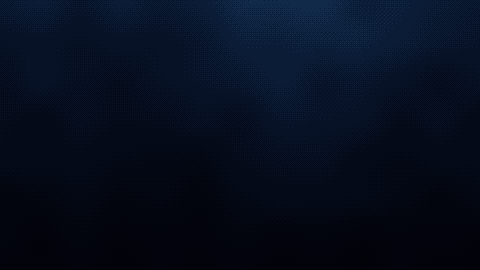
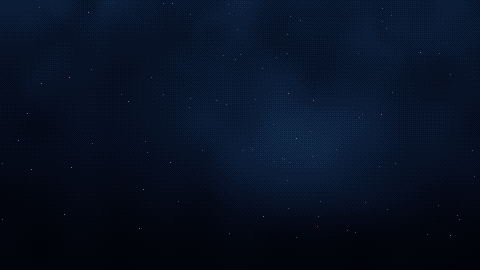
art(intro): 용궁 정전 디테일(비늘 바닥·카펫·산호·진주·창밖 물고기), 바닷속 용궁 실루엣·중경 산초, 연출(시차·푸시인·귀화·기포·진주 글로우), 검은 띠 버그 수정, capture --every

Changed region(s): [[0.375, 0.4148, 0.9062, 0.7407], [0.5312, 0.0, 0.7188, 0.1185]]

diff --git a/art/intro_hall3d.py b/art/intro_hall3d.py
@@ -36,6 +36,10 @@ RAMPS = {
     'dais':    ramp('#06080e', '#0e121c', '#181e2c', '#242c3e', '#323c52', '#465068'),
     'bed':     ramp('#0e0a12', '#1c1424', '#2c2038', '#3e304e', '#544466', '#6e5c80'),
     'drape':   ramp('#061416', '#0c2224', '#143436', '#1e4a4a', '#2a6260'),
+    'coral':   ramp('#14060c', '#2a0e16', '#4a1a22', '#74302c', '#a0503a', '#c87a4c'),
+    'coral2':  ramp('#04100e', '#0a2420', '#123c36', '#1e5a4e', '#34806c', '#5aa890'),
+    'carpet':  ramp('#0c0614', '#180a26', '#2a1238', '#401c50', '#5a2a66', '#7a4082'),
+    'stone':   ramp('#05080e', '#0c121c', '#161e2c', '#222c3e', '#323e54', '#46546c'),
     'pearl':   ramp('#1e2c38', '#344e5e', '#527684', '#7a9ea6', '#a6c6c8', '#cce4e0'),
 }
 FOG = hx('#071426')
@@ -76,6 +80,7 @@ def _plane(o, d, axis, v, sign):
 
 
 PILLARS = [(sx * 3.3, z) for z in (4.8, 7.6, 10.4, 13.2) for sx in (-1, 1)] + [(sx * 5.6, z) for z in (5.0, 9.0, 13.0) for sx in (-1, 1)]
+CORALS = [(sx * 4.4, z, int(z * 3)) for z in (6.2, 9.0, 12.0) for sx in (-1, 1)] + [(sx * 6.4, z, int(z * 5)) for z in (7.0, 11.0) for sx in (-1, 1)]
 LANTERNS = [(sx * 2.1, 3.9, z) for z in (5.0, 8.0, 11.0) for sx in (-1, 1)]
 
 
@@ -116,6 +121,25 @@ def scene(o, d, depth=0):
     for sx in (-1, 1):   # drapes gathered at the canopy posts
         lo, hi = (sx * 1.7 - 0.22, 1.0, 10.25), (sx * 1.7 + 0.22, 3.35, 10.55)
         take(_box(o, d, lo, hi), 'drape', lambda p, lo=lo, hi=hi: _box_normal(p, lo, hi))
+    for (cx, cz, k) in CORALS:      # coral clusters between the pillars: branching trunks with round crowns
+        for j in range(4):
+            bx, bz = cx + math.cos(j * 1.9 + k) * 0.28, cz + math.sin(j * 1.9 + k) * 0.28
+            h = 0.9 + 0.5 * ((j * 7 + k) % 3)
+            nm = 'coral' if (k + j) % 2 == 0 else 'coral2'
+            take(_cyl(o, d, bx, bz, 0.07, 0, h), nm, lambda p, bx=bx, bz=bz: np.stack([p[:, 0] - bx, np.zeros(len(p)), p[:, 2] - bz], -1) / 0.07)
+            c = np.array([bx, h + 0.05, bz])
+            take(_sph(o, d, c, 0.2 + 0.04 * j), nm, lambda p, c=c, r=0.2 + 0.04 * j: (p - c) / r)
+    for sx in (-1, 1):             # pearl on a stone pedestal beside the dais
+        lo, hi = (sx * 2.7 - 0.35, 0.0, 7.5), (sx * 2.7 + 0.35, 0.9, 8.2)
+        take(_box(o, d, lo, hi), 'stone', lambda p, lo=lo, hi=hi: _box_normal(p, lo, hi))
+        c = np.array([sx * 2.7, 1.3, 7.85])
+        take(_sph(o, d, c, 0.42), 'pearl', lambda p, c=c: (p - c) / 0.42)
+    for (sx, z) in ((-1.1, 6.0), (1.1, 6.0), (-1.1, 9.4), (1.1, 9.4)):   # strings of pearls hanging from the beams
+        for j in range(6):
+            c = np.array([sx, 5.9 - j * 0.28, z])
+            take(_sph(o, d, c, 0.09), 'pearl', lambda p, c=c: (p - c) / 0.09)
+    for (cx, cz) in PILLARS:       # bracket sets under the eaves
+        take(_cyl(o, d, cx, cz, 0.44, 5.35, 5.8), 'dan_r', lambda p, cx=cx, cz=cz: np.stack([p[:, 0] - cx, np.zeros(len(p)), p[:, 2] - cz], -1) / 0.44)
     for (lx, ly, lz) in LANTERNS:
         take(_sph(o, d, np.array([lx, ly, lz]), 0.18), 'pearl', lambda p, c=np.array([lx, ly, lz]): (p - c) / 0.18)
     return best, mat, nrm
@@ -149,9 +173,23 @@ def shade(mat, p, nrm, d):
     f = m == 'floor'
     if f.any():
         caust = _noise(x[f] * 2.2, z[f] * 2.2, 1.0) * _noise(x[f] * 3.1 + 4, z[f] * 2.7, 2.0)
-        tile = ((np.floor(x[f] / 1.2) + np.floor(z[f] / 1.2)) % 2) * 0.35
+        # seigaiha: staggered rings of overlapping scales (용궁 비늘 바닥)
+        sc_ = 0.9
+        row = np.floor(z[f] / (sc_ * 0.5))
+        xo = x[f] / sc_ + (row % 2) * 0.5
+        fx = np.mod(xo, 1.0) - 0.5
+        fz = np.mod(z[f] / (sc_ * 0.5), 1.0)
+        rr = np.sqrt(fx ** 2 + (fz * 0.5) ** 2) * 2.0
+        ring = (np.abs(np.mod(rr * 3.0, 1.0) - 0.5) < 0.12) * 0.55
+        tile = ring + (rr < 0.55) * 0.25
         tone[f] = 1.4 + tile + caust * 1.6 + glow[f] * 0.9 - z[f] * 0.05
-    for name, base, k in (('pillar', 2.0, 3.0), ('dais', 1.4, 2.4), ('bed', 1.6, 2.8), ('drape', 1.2, 2.4), ('gold', 1.6, 3.2)):
+        run = np.abs(x[f]) < 1.15   # the carpet runner to the dais, gold-edged
+        edge = run & (np.abs(np.abs(x[f]) - 1.0) < 0.07)
+        tone[f] = np.where(run, 1.6 + glow[f] * 1.0 + caust * 0.8 + ((np.mod(z[f], 0.9) < 0.1) * 0.8), tone[f])
+        mm = m[f]; mm[run] = 'carpet'; mm[edge] = 'gold'; m[f] = mm
+        tone[np.where(f)[0][edge]] = 3.2
+    f = m == 'floor'
+    for name, base, k in (('pillar', 2.0, 3.0), ('coral', 1.4, 3.4), ('coral2', 1.4, 3.4), ('stone', 1.4, 2.6), ('dan_r', 1.4, 2.4), ('dais', 1.4, 2.4), ('bed', 1.6, 2.8), ('drape', 1.2, 2.4), ('gold', 1.6, 3.2)):
         s = m == name
         tone[s] = base + lam[s] * k + glow[s] * 0.9
     s = m == 'pillar'
@@ -181,6 +219,9 @@ def shade(mat, p, nrm, d):
         grid = (np.abs(np.mod(z[la], 0.5) - 0.25) < 0.04) | (np.abs(np.mod(y[la], 0.5) - 0.25) < 0.04)
         win = (np.mod(z[la], 3.0) > 0.6) & (y[la] > 1.0) & (y[la] < 4.8)
         tone[la] = np.where(win & ~grid, 3.4 + _noise(z[la], y[la], 5.0) * 2.0, 0.8 + glow[la] * 0.5)
+        for fz_, fy_ in ((4.0, 2.4), (8.5, 3.6), (11.5, 2.0), (14.5, 3.9)):   # fish gliding past the windows
+            fsh = ((z[la] - fz_) / 0.9) ** 2 + ((y[la] - fy_) / 0.22) ** 2 < 1
+            tone[la] = np.where(fsh & win, 0.8, tone[la])
         mm = m[la]; mm[~win] = 'wall'; m[la] = mm
     pe = m == 'pearl'
     tone[pe] = 2.8 + lam[pe] * 1.6
@@ -212,7 +253,7 @@ def render():
         rt, rm, rn = scene(p[f] + rd * 1e-3, rd)
         rp = p[f] + rd * np.where(np.isfinite(rt), rt, 30)[:, None]
         rtone, rm = shade(rm, rp, rn, rd)
-        refl = np.isin(rm, ['pillar', 'gold', 'pearl', 'bed', 'dais'])
+        refl = np.isin(rm, ['pillar', 'gold', 'pearl', 'bed', 'dais', 'coral', 'coral2'])
         tone_f = tone[f]
         tone_f[refl] = tone_f[refl] * 0.65 + rtone[refl] * 0.35
         tone[f] = tone_f
@@ -234,5 +275,13 @@ def render():
         shafts += np.exp(-(lx ** 2) / (60 + k * 30)) * np.clip(1.2 - yy / 220, 0, 1)
     rgb = rgb * (1 - fog[:, None] * 0.75) + FOG * fog[:, None] * 0.75
     rgb += np.array([40, 70, 90]) * (shafts * 0.28)[:, None]
+    c0 = np.array([0.0, 1.6, 11.0])    # warm lamplight over the sick-bed (the one warm note in the cold hall)
+    dd2 = ((p - c0) ** 2).sum(-1)
+    rgb += np.array([70, 40, 12]) * np.exp(-dd2 / 12.0)[:, None] * 0.95
+    rng = np.random.default_rng(21)    # drifting motes baked as single bright pixels, brighter when nearer
+    for _ in range(170):
+        mx, my = rng.integers(0, W), rng.integers(0, H)
+        k = rng.random()
+        rgb.reshape(H, W, 3)[my, mx] = np.maximum(rgb.reshape(H, W, 3)[my, mx], np.array([90, 150, 170]) * (0.5 + k * 0.5))
     q = np.floor(rgb / 6) * 6   # keep the palette tight after fog
     return np.clip(q, 0, 255).reshape(H, W, 3)

diff --git a/art/intro.py b/art/intro.py
@@ -84,13 +84,53 @@ def palace_silhouette(w, h):
 
 
 def shot_sea():
-    g = (1 - yy / H) * 3.2 + noise((H, W), 40, 1) * 0.8 + np.exp(-((xx - 300) ** 2) / 9000.0) * (1 - yy / H) * 1.5
+    # water: lit from the surface far above, a pearl-glow pooled around the drowned palace
+    glow = np.exp(-(((xx - 300) / 150.0) ** 2 + ((yy - 150) / 70.0) ** 2))
+    g = (1 - yy / H) * 3.2 + noise((H, W), 40, 1) * 0.8 + glow * 2.6
+    g += (np.sin(xx * 0.05 + noise((H, W), 30, 2) * 6) * 0.5 + 0.5) * np.clip(1 - yy / 130.0, 0, 1) * 0.5   # caustic bands near the top
     rgb = dither(g, DEEP)
+    rng = np.random.default_rng(31)
+    for _ in range(90):                               # marine snow / plankton glints
+        px, py = rng.integers(0, W), rng.integers(0, H - 30)
+        rgb[py, px] = hx('#2c4e70') if rng.random() > 0.3 else hx('#4a7a98')
     save('intro_sea', rgb)
     far, win = palace_silhouette(W, H)
-    col = np.zeros((H, W, 3)) + hx('#08162a')
-    col[win & (noise((H, W), 9, 3) > 0.35)] = hx('#4a7a98')   # faint lit windows in the drowned palace
-    save('intro_sea_far', col, (far * 210).astype(np.uint8))
+    # edge light: roofs catch the pearl glow on their upper rims, walls fall into the dark below
+    up = far & ~np.roll(far, 1, 0)
+    up2 = far & ~np.roll(far, 2, 0) & ~up
+    tone = np.clip((1 - (yy - 100) / 120.0), 0, 1)
+    col = np.zeros((H, W, 3)) + hx('#0a1c34') * (0.55 + 0.45 * tone[..., None])
+    col[up] = hx('#3a7a9c')
+    col[up2] = hx('#1e4c70')
+    lit = win & (noise((H, W), 9, 3) > 0.3)
+    col[lit] = np.where((noise((H, W), 4, 8)[lit] > 0.55)[:, None], hx('#e8b868'), hx('#6ab4c8'))   # warm lamps and pearl-light in the windows
+    spire = np.zeros((H, W), bool)                      # a hanging-bell finial on the great roof
+    spire |= (np.abs(xx - 300) < 1) & (yy > 92) & (yy < 112)
+    spire |= (np.hypot(xx - 300, yy - 90) < 3)
+    col[spire] = hx('#c8a050')
+    save('intro_sea_far', col, ((far | spire) * 235).astype(np.uint8))
+    # mid layer: coral reef and tall sea-fans lit by bioluminescent pearls, between the palace and the kelp
+    mid = np.zeros((H, W), bool)
+    rng = np.random.default_rng(12)
+    for k in range(9):
+        x0 = rng.integers(10, W - 10); hgt = rng.integers(22, 62); ph = rng.random() * 6
+        for y in range(H - 52 - hgt, H - 52):
+            t = (y - (H - 52 - hgt)) / hgt
+            for br in (-1, 1):                          # fan-shaped branching
+                x = int(x0 + br * (1 - t) * (hgt * 0.35) * math.sin(0.5 + t) + math.sin(y * 0.09 + ph) * 2)
+                mid[y, max(0, x - 1):max(0, min(W, x + 2))] = True
+            mid[y, max(0, x0 - 2):max(0, min(W, x0 + 3))] = True
+    mid |= (yy > H - 52 + np.sin(xx * 0.03 + 1) * 9 - noise((H, W), 18, 17) * 12)
+    mcol = np.zeros((H, W, 3)) + hx('#06101e')
+    mup = mid & ~np.roll(mid, 1, 0)
+    gr = dither(noise((H, W), 6, 40) * 2.2 + (1 - np.clip((yy - (H - 60)) / 60.0, 0, 1)) * 1.2, ramp('#040a14', '#07121f', '#0b1a2c', '#10243a'))
+    mcol = np.where(mid[..., None], gr, mcol)
+    mcol[mup] = hx('#1c4a66')
+    for _ in range(26):                                # glowing sea-pearls and anemone tips
+        px, py = rng.integers(0, W), rng.integers(H - 70, H - 20)
+        if mid[py, px]:
+            mcol[py, px] = hx('#8ad0d8'); mcol[py, min(W - 1, px + 1)] = hx('#3a8aa0'); mcol[max(0, py - 1), px] = hx('#3a8aa0')
+    save('intro_sea_mid', mcol, (mid * 255).astype(np.uint8))
     fg = np.zeros((H, W), bool)
     rng = np.random.default_rng(5)
     for k in range(14):                              # kelp fronds rising from the floor
@@ -99,9 +139,12 @@ def shot_sea():
             t = (H - y) / hgt
             x = int(x0 + math.sin(y * 0.05 + ph) * 8 * t)
             wdt = int(3 + (1 - t) * 3)
-            fg[y, max(0, x - wdt):min(W, x + wdt)] = True
-    fg |= (yy > H - 26 + np.sin(xx * 0.018) * 8 - noise((H, W), 24, 7) * 14)
-    save('intro_sea_fg', np.zeros((H, W, 3)) + hx('#010306'), (fg * 255).astype(np.uint8))
+            fg[y, max(0, x - wdt):max(0, min(W, x + wdt))] = True
+    fg |= (yy > H - 8 + np.sin(xx * 0.018) * 6 - noise((H, W), 12, 7) * 26)
+    fcol = np.zeros((H, W, 3)) + hx('#010306')
+    fup = fg & ~np.roll(fg, 1, 0) | (fg & ~np.roll(fg, 1, 1))
+    fcol[fup] = hx('#0c2a40')                          # a thin rim of palace-light on the kelp edges
+    save('intro_sea_fg', fcol, (fg * 255).astype(np.uint8))
 
 
 def shot_hall():
@@ -135,8 +178,18 @@ def shot_night(name='intro_night', shore=True):
         hill = horizon - 1 - rise * (16 + noise((H, W), 30, 11) * 10)
         land = (yy > hill) & (yy < horizon)
         rgb[land] = hx('#020306')
-        for (lx, ly) in ((40, 146), (62, 147), (75, 145), (108, 148), (130, 147)):
-            rgb[ly, lx] = hx('#ffb060'); rgb[ly, lx + 1] = hx('#c06a28')
+        # a fishing village on the far shore: thatched roofs, warm lit windows, and their reflections in the swell
+        houses = ((22, 144, 7), (40, 146, 9), (63, 147, 8), (78, 145, 6), (104, 148, 9), (128, 148, 8), (150, 149, 6))
+        for (hx_, hy_, hw_) in houses:
+            for dy in range(0, 5):                         # roof: a stepped triangle
+                w_ = hw_ // 2 + 1 - dy // 2 + 1
+                rgb[hy_ - 6 + dy, max(0, hx_ - w_):hx_ + w_ + 1] = hx('#05070d')
+            rgb[hy_ - 1:hy_ + 1, hx_ - hw_ // 2:hx_ + hw_ // 2 + 1] = hx('#04060a')
+            rgb[hy_ - 1, hx_] = hx('#ffb060'); rgb[hy_ - 1, hx_ + 1] = hx('#c06a28'); rgb[hy_, hx_] = hx('#8a4a1c')
+            for k in range(1, 9):                          # reflection streak, broken by the swell
+                yy_ = horizon + 2 + k * 2
+                if yy_ < H and ((k + hx_) % 3) != 0:
+                    rgb[yy_, hx_ - (k % 2): hx_ + 1 + (k % 2)] = hx('#a05a24') if k < 5 else hx('#5a3418')
     save(name, rgb)
 
 
